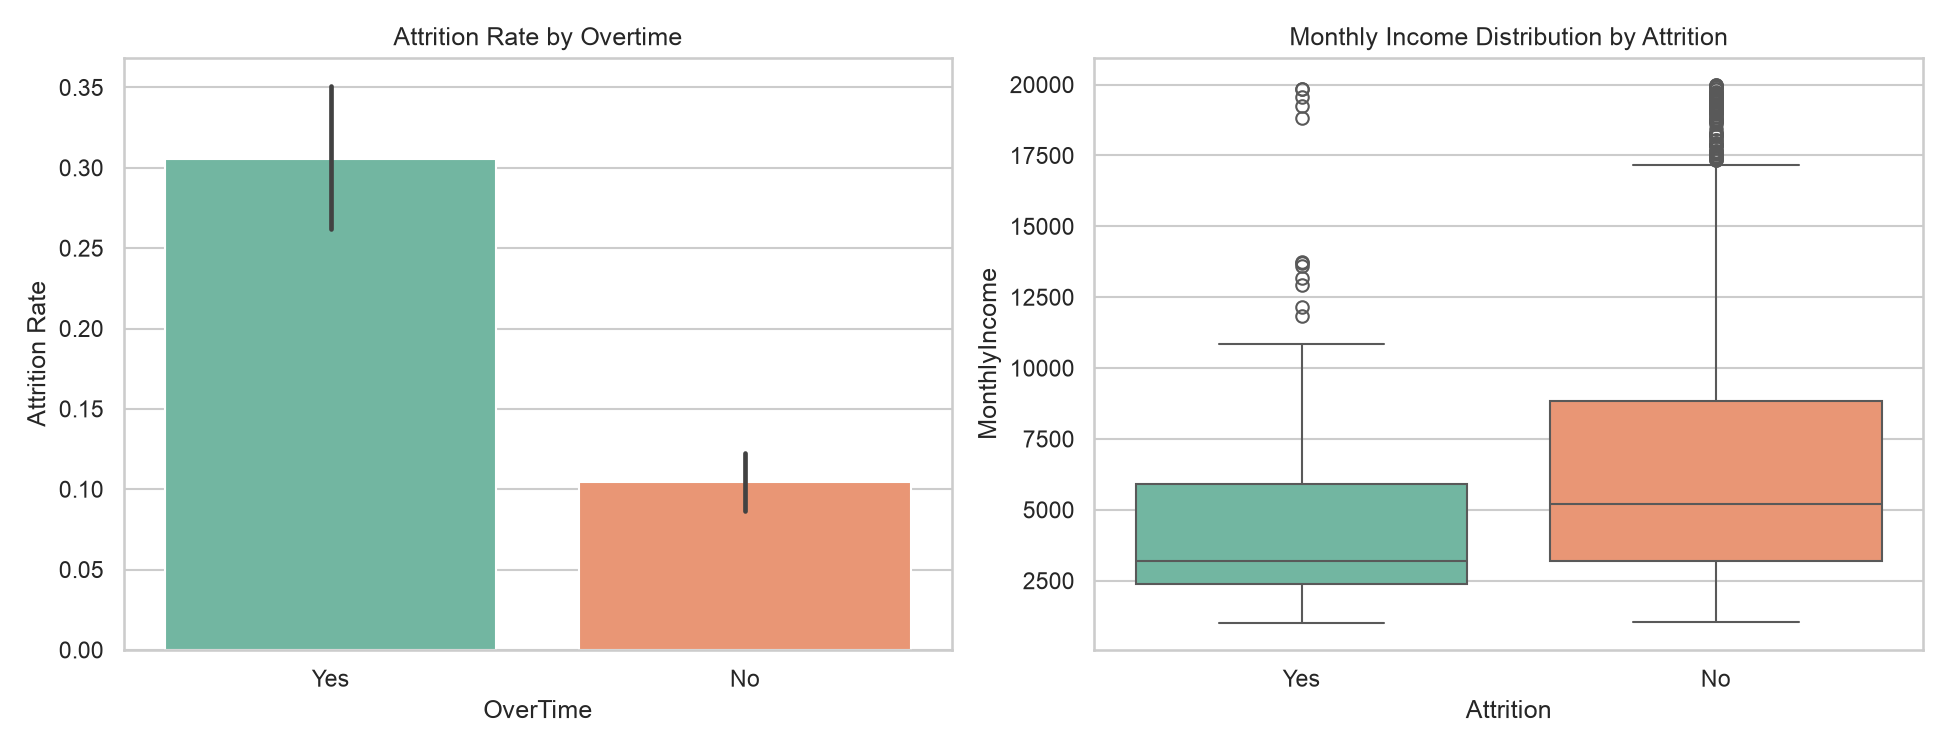
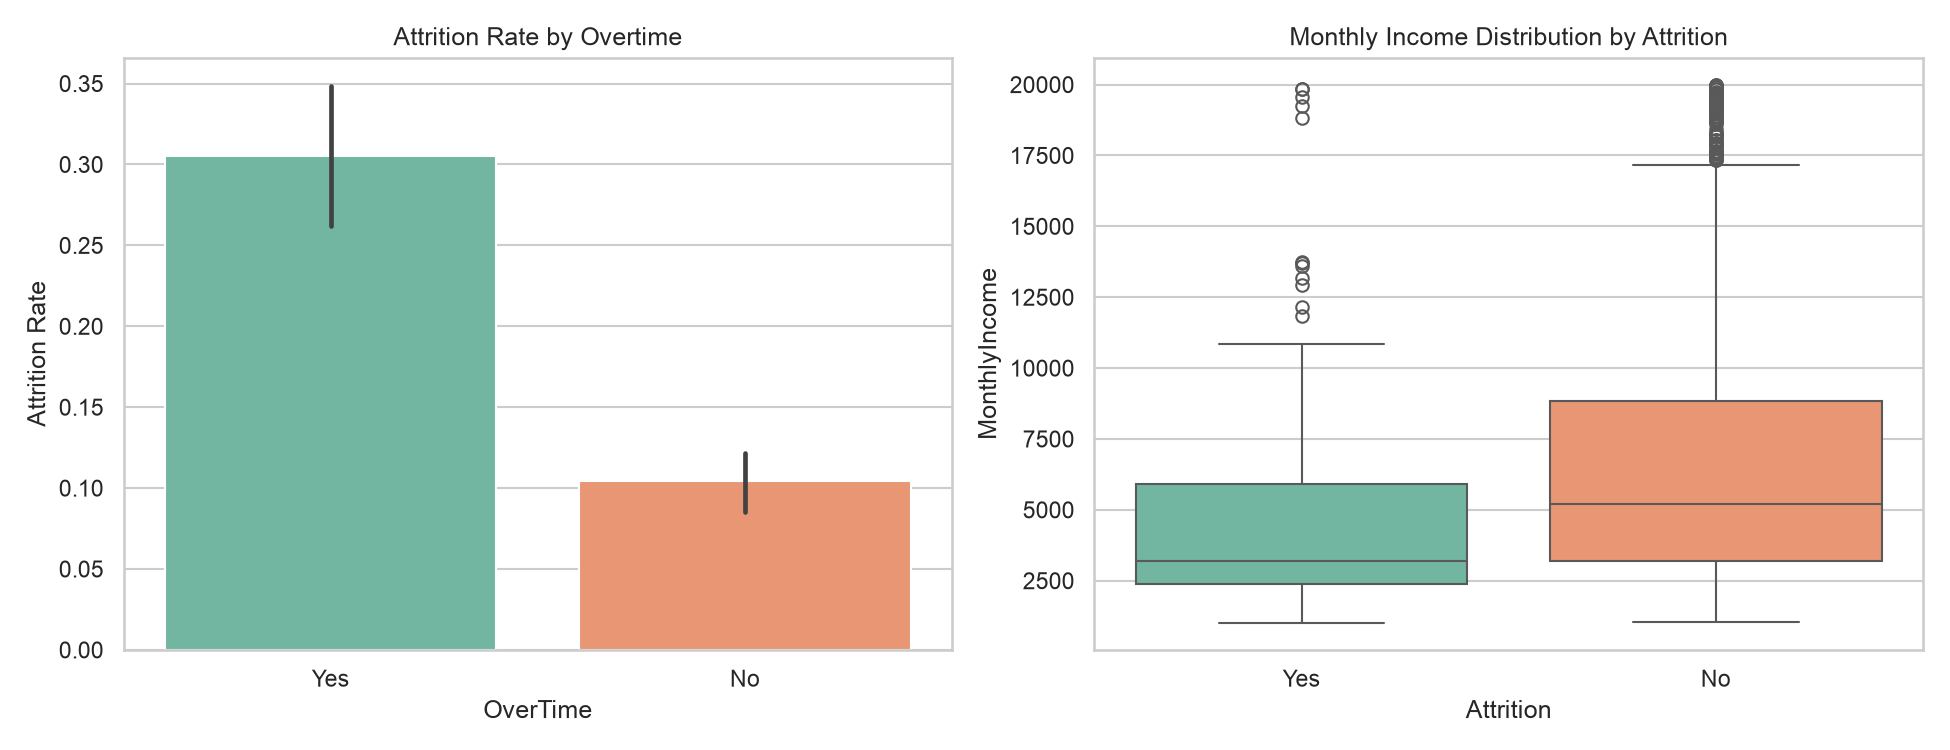
Add Streamlit app and trained model outputs

diff --git a/app.py b/app.py
@@ -1,0 +1,135 @@
+import json
+from pathlib import Path
+import joblib
+import pandas as pd
+import streamlit as st
+
+st.set_page_config(page_title="Employee Attrition Predictor", layout="wide")
+
+MODEL_PATH = Path("outputs/logistic_regression_attrition_model.joblib")
+METRICS_PATH = Path("outputs/model_metrics.json")
+DATA_PATH = Path("data/processed/attrition_clean.csv")
+FIG_PATH = Path("outputs/figures/key_attrition_drivers.png")
+
+
+@st.cache_resource
+def load_model():
+    return joblib.load(MODEL_PATH)
+
+
+@st.cache_data
+def load_data():
+    return pd.read_csv(DATA_PATH)
+
+
+def prepare_features(df_input: pd.DataFrame, feature_names) -> pd.DataFrame:
+    df_feat = df_input.copy()
+    df_feat["Promotion_Lag_Ratio"] = df_feat["YearsSinceLastPromotion"] / (
+        df_feat["YearsAtCompany"] + 1
+    )
+    df_feat["Tenure_Per_Company"] = df_feat["TotalWorkingYears"] / (
+        df_feat["NumCompaniesWorked"] + 1
+    )
+    X = pd.get_dummies(
+        df_feat.drop(columns=["Attrition", "Attrition_Flag"], errors="ignore"),
+        drop_first=True,
+    )
+    return X.reindex(columns=feature_names, fill_value=0)
+
+
+model = load_model()
+df = load_data()
+
+st.title("Employee Attrition Risk Dashboard")
+st.write("Predict individual employee flight risk, score batches, and review key attrition drivers.")
+
+tab1, tab2, tab3 = st.tabs(["Single Employee Prediction", "Batch Risk Scoring", "EDA & Model Metrics"])
+
+# --- TAB 1: Single Prediction ---
+with tab1:
+    st.subheader("Predict Attrition Risk for One Employee")
+    col1, col2, col3 = st.columns(3)
+
+    with col1:
+        age = st.number_input("Age", 18, 65, 32)
+        monthly_income = st.number_input("Monthly Income ($)", 1000, 25000, 5000, step=250)
+        overtime = st.selectbox("OverTime", sorted(df["OverTime"].unique()))
+        marital_status = st.selectbox("Marital Status", sorted(df["MaritalStatus"].unique()))
+
+    with col2:
+        department = st.selectbox("Department", sorted(df["Department"].unique()))
+        job_role = st.selectbox("Job Role", sorted(df["JobRole"].unique()))
+        business_travel = st.selectbox("Business Travel", sorted(df["BusinessTravel"].unique()))
+        num_companies = st.number_input("Num Companies Worked", 0, 15, 2)
+
+    with col3:
+        total_working_years = st.number_input("Total Working Years", 0, 45, 8)
+        years_at_company = st.number_input("Years At Company", 0, 40, 4)
+        years_since_promo = st.number_input("Years Since Last Promotion", 0, 20, 1)
+        threshold = st.slider("High-Risk Threshold", 0.10, 0.90, 0.40, 0.05)
+
+    if st.button("Calculate Attrition Risk", type="primary"):
+        # Start from dataset median/mode defaults so all columns exist
+        base_row = df.drop(columns=["Attrition", "Attrition_Flag"], errors="ignore").mode().iloc[[0]].copy()
+        for c in base_row.select_dtypes(include="number").columns:
+            base_row[c] = df[c].median()
+
+        base_row["Age"] = age
+        base_row["MonthlyIncome"] = monthly_income
+        base_row["OverTime"] = overtime
+        base_row["MaritalStatus"] = marital_status
+        base_row["Department"] = department
+        base_row["JobRole"] = job_role
+        base_row["BusinessTravel"] = business_travel
+        base_row["NumCompaniesWorked"] = num_companies
+        base_row["TotalWorkingYears"] = total_working_years
+        base_row["YearsAtCompany"] = years_at_company
+        base_row["YearsSinceLastPromotion"] = years_since_promo
+
+        X_single = prepare_features(base_row, model.feature_names_in_)
+        prob = float(model.predict_proba(X_single)[:, 1][0])
+
+        st.metric("Predicted Attrition Risk", f"{prob * 100:.1f}%")
+        if prob >= threshold:
+            st.error(f"High Risk (above {threshold:.2f} threshold)")
+        else:
+            st.success(f"Low Risk (below {threshold:.2f} threshold)")
+
+# --- TAB 2: Batch Scoring ---
+with tab2:
+    st.subheader("Score Employees in Bulk")
+    batch_thresh = st.slider("Batch Risk Threshold", 0.10, 0.90, 0.40, 0.05, key="batch_thresh")
+    uploaded_file = st.file_uploader("Upload a cleaned employee CSV (or leave empty to score default dataset)", type=["csv"])
+
+    target_df = pd.read_csv(uploaded_file) if uploaded_file else df
+    X_batch = prepare_features(target_df, model.feature_names_in_)
+    probs = model.predict_proba(X_batch)[:, 1]
+
+    scored = target_df[["OverTime", "JobRole", "MonthlyIncome"]].copy()
+    if "Attrition" in target_df.columns:
+        scored.insert(0, "Attrition", target_df["Attrition"])
+    scored["Attrition_Risk_Prob"] = probs.round(3)
+    scored["Predicted_High_Risk"] = (probs >= batch_thresh).astype(int)
+    scored = scored.sort_values("Attrition_Risk_Prob", ascending=False)
+
+    st.write(f"Flagged **{int(scored['Predicted_High_Risk'].sum())}** of **{len(scored)}** employees.")
+    st.dataframe(scored.head(20), use_container_width=True)
+
+    st.download_button(
+        label="Download Full Scored CSV",
+        data=scored.to_csv(index=False).encode("utf-8"),
+        file_name="scored_employees.csv",
+        mime="text/csv",
+    )
+
+# --- TAB 3: EDA & Model Metrics ---
+with tab3:
+    st.subheader("Model Evaluation Metrics")
+    if METRICS_PATH.exists():
+        with open(METRICS_PATH) as f:
+            metrics = json.load(f)
+        st.dataframe(pd.DataFrame(metrics).T, use_container_width=True)
+
+    st.subheader("Key Attrition Drivers")
+    if FIG_PATH.exists():
+        st.image(str(FIG_PATH), use_container_width=True)
